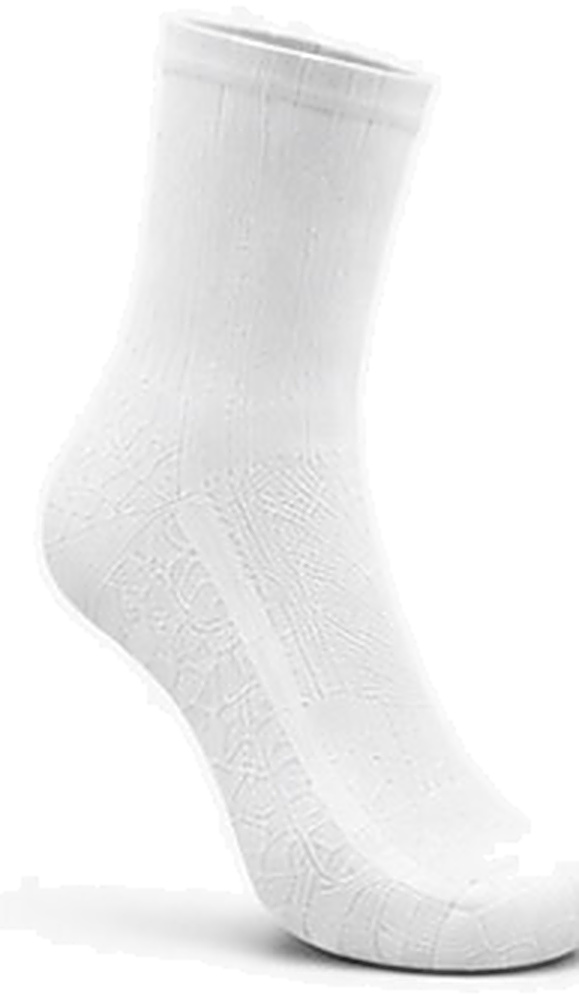
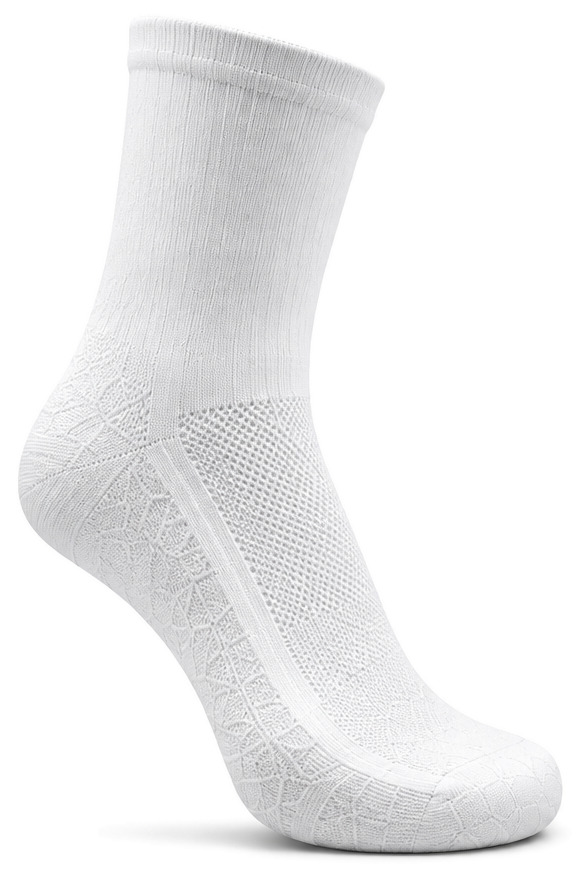
Swap in the supplied product photography
Replaces four of the six shots with crops from the photography provided,
at native resolution instead of upscaled sheet fragments:

  stuart-200-side       295 x 455 upscaled  ->  661 x 784 native
  stuart-200-back       111 x 257 upscaled  ->  372 x 773 native
  larch-100-white-side  193 x 334 upscaled  ->  581 x 877 native
  larch-100-white-back  140 x 334 upscaled  ->  300 x 879 native

The Stuart 200 back view gains the most: it was the softest image on the
site at eleven times fewer pixels than it now carries. All four are cut
with the same isolation pass, so the backgrounds stay pure white and the
socks still sit on the page background with no visible box.

The Larch 100 in Black has no supplied photography, so it stays on the
tech-pack crop and is now the only low-resolution pair on the site.

Copy follows the photography where the two disagree. The supplied images
show three larch dashes on the back cuff of BOTH socks, not the Mount
Stuart mountain the 200 Quarter tech pack drew there. The dashes are
treated as a house mark: the Stuart 200's signature line and the
editorial tile are rewritten, and the back-view alt text no longer
describes a mountain. The story section's references to the mountain
itself are untouched — they are about the peak, not a logo.

Claude-Session: https://claude.ai/code/session_013fb5EHTk8QK9CKA3QyLpvQ

Changed region(s): [[0.0311, 0.0, 1.0, 0.9852], [0.2176, 0.1847, 0.2487, 0.2463], [0.1865, 0.3079, 0.2176, 0.3387]]

diff --git a/index.html b/index.html
@@ -426,7 +426,7 @@ footer{background:#fff;border-top:1px solid var(--hair);padding:clamp(40px,5vw,6
         <article class="pfeat">
           <div class="pmedia">
             <div class="pshot">
-              <img id="img-200" src="img/stuart-200-side.jpg" width="885" height="1365"
+              <img id="img-200" src="img/stuart-200-side.jpg" width="661" height="784"
                    alt="Stuart 200 in Stuart Stone, outside view">
             </div>
             <div class="thumbs" data-main="img-200" role="group" aria-label="Stuart 200 views">
@@ -434,7 +434,7 @@ footer{background:#fff;border-top:1px solid var(--hair);padding:clamp(40px,5vw,6
                       data-src="img/stuart-200-side.jpg" data-alt="Stuart 200 in Stuart Stone, outside view">
                 <img src="img/stuart-200-side.jpg" alt="Outside view" loading="lazy"></button>
               <button type="button" aria-pressed="false"
-                      data-src="img/stuart-200-back.jpg" data-alt="Stuart 200 from behind, showing the Achilles guard and the Mount Stuart mark on the back cuff">
+                      data-src="img/stuart-200-back.jpg" data-alt="Stuart 200 from behind, showing the graphite heel and the three larch dashes on the back cuff">
                 <img src="img/stuart-200-back.jpg" alt="Back view" loading="lazy"></button>
             </div>
           </div>
@@ -443,7 +443,7 @@ footer{background:#fff;border-top:1px solid var(--hair);padding:clamp(40px,5vw,6
             <p class="sub">Quarter · Midweight cushion · Merino blend</p>
             <div class="lrule"></div>
             <p class="lede">Built for long miles. Made to move fast. Light, breathable, resilient cushioning that won't quit at mile 100 — full terry underfoot, an Achilles guard where the boot rubs, and a toe seam you can't find with your toes.</p>
-            <p class="sig"><b>The Mount Stuart mark.</b> Stitched in larch on the back cuff, above the Achilles guard — for the peak that closes the north end of the range.</p>
+            <p class="sig"><b>Three larch dashes, and graphite where it wears.</b> The house mark sits on the back cuff; below it the terry cushion wraps the heel, the sole and the toe.</p>
             <ul class="chips">
               <li><span>Height</span><b>Quarter · 5.5" heel to cuff</b></li>
               <li><span>Yarn</span><b>58–60% merino / 37–39% nylon / 3% elastane</b></li>
@@ -469,7 +469,7 @@ footer{background:#fff;border-top:1px solid var(--hair);padding:clamp(40px,5vw,6
         <article class="pfeat rev">
           <div class="pmedia">
             <div class="pshot">
-              <img id="img-crew" src="img/larch-100-white-side.jpg" width="579" height="1002"
+              <img id="img-crew" src="img/larch-100-white-side.jpg" width="581" height="877"
                    alt="Larch 100 in White / Larch, side view">
             </div>
             <div class="thumbs" data-main="img-crew" data-way="white"
@@ -496,7 +496,7 @@ footer{background:#fff;border-top:1px solid var(--hair);padding:clamp(40px,5vw,6
             <p class="sub">Mid-crew · Ultralight · Running &amp; trail</p>
             <div class="lrule"></div>
             <p class="lede">Built to move fast. Made to breathe. An open mesh knit that moves air over the whole vamp, and a compression fit that locks the sock down.</p>
-            <p class="sig"><b>Three larch dashes.</b> Centered on the back cuff, in the color this valley turns for two weeks every October.</p>
+            <p class="sig"><b>Three larch dashes.</b> The house mark, centered on the back cuff, in the color this valley turns for two weeks every October.</p>
             <ul class="chips">
               <li><span>Height</span><b>Mid-crew · 7–7.5" heel to cuff (M)</b></li>
               <li><span>Yarn</span><b>93% polypropylene / 7% elastane</b></li>
@@ -569,8 +569,8 @@ footer{background:#fff;border-top:1px solid var(--hair);padding:clamp(40px,5vw,6
                  src="https://images.unsplash.com/photo-1600100315760-ac46b65f6fdd?auto=format&amp;fit=crop&amp;w=1000&amp;q=75"
                  alt="A hiker's boots planted on bare rock">
           </figure>
-          <h3>Two marks, one range</h3>
-          <p>A mountain on the Stuart 200, three dashes on the Larch 100. Both in larch, both on the back cuff, both earned outside.</p>
+          <h3>Three dashes, one range</h3>
+          <p>The house mark, in larch — the color this valley turns for two weeks every October. It sits on the back cuff of every pair.</p>
           <a class="tlink" href="#ground">Read the story</a>
         </article>
         <article class="tile">

diff --git a/README.md b/README.md
@@ -53,39 +53,48 @@ Two products, drawn from the current tech packs:
 | Yarn | 58–60% merino / 37–39% nylon / 3% elastane | 93% polypropylene / 7% elastane |
 | Knit | 168 needle high density | Open mesh, reinforced heel & toe |
 | Colorways | Stuart Stone (Stone Heather, Graphite, Larch) | White/Larch, Black/Larch |
-| Back-cuff mark | Mount Stuart, in larch | Three larch dashes |
+| Back-cuff mark | Three larch dashes | Three larch dashes |
 
 Both are performance socks, so the names carry the place and the cushion weight
 rather than the fibre — the tech packs' "merino" and "performance" labels would
-not have told a customer them apart. Each sock is named for the mark on its own
-back cuff, and the number is the cushion weight, continuous with the old
-100/200/300 line. Larch (`#9E4A28`) is the shared accent. Sizes are unisex
-S/M/L/XL (US 4–6.5 / 7–9.5 / 10–12.5 / 13–15).
+not have told a customer them apart. The number is the cushion weight,
+continuous with the old 100/200/300 line. Larch (`#9E4A28`) is the shared
+accent. Sizes are unisex S/M/L/XL (US 4–6.5 / 7–9.5 / 10–12.5 / 13–15).
+
+The three larch dashes are a house mark, not a per-sock one: the supplied
+product photography shows them on the back cuff of both socks. The 200 Quarter
+tech pack drew a Mount Stuart mountain there instead, so the two disagree — the
+site follows the photography. See the launch list.
 
 Product copy carries the name alone — no colorway numbers, version codes or
 rank badges, and nothing overlaid on the photography.
 
 ### Product imagery
 
-`img/` holds six shots cropped out of the two tech-pack sheets — two per sock,
-side and back:
+`img/` holds six shots — two per sock, side and back:
 
 ```
 stuart-200-side.jpg        larch-100-white-side.jpg   larch-100-black-side.jpg
 stuart-200-back.jpg        larch-100-white-back.jpg   larch-100-black-back.jpg
 ```
 
-The back view is the second shot on purpose: it is where each sock's mark sits,
-over the heel. Sheet annotations — the 5.5" dimension line, the view labels,
-body copy that fell inside the crop — were removed by keeping only the sock's
+The first four are cut from supplied product photography and are native
+resolution — 661 x 784 up to 581 x 877. **The two black shots are still cropped
+from the tech-pack sheet** and are the only low-resolution images left on the
+site, so quality drops visibly when someone switches the Larch 100 to Black.
+
+The back view is the second shot on purpose: it is where the mark sits, over the
+heel. Stray sheet content — annotations, view labels, body copy that fell inside
+a crop — was removed by keeping only the sock's
 connected pixel region, and each background was lifted to pure white so the
 images sit on the page background under `mix-blend-mode: multiply` with no
 visible box. Change `--fog` and the frames follow; the photos need no re-export.
 
-They ship resampled 3x (Lanczos, a median pass to kill the ringing that
-introduces, then unsharp) at JPEG q95 with no chroma subsampling — sized so a 3x
-phone renders them at 1.0–1.2x rather than stretching them. 488 KB for all six;
-the two black shots only load if someone picks that colorway.
+The photographed four are saved at native size, JPEG q92, no chroma
+subsampling. The two black shots, having no better source, are resampled 3x
+(Lanczos, a median pass to kill the ringing that introduces, then unsharp) at
+q95. Every image renders at roughly 1x on a 3x phone. 496 KB for all six; the
+black pair only loads if someone picks that colorway.
 
 Each product has a two-up thumbnail strip that swaps the main image. The Larch
 100's colorway buttons swap the whole strip (`.thumbs[data-way]`) and reset it
@@ -101,7 +110,9 @@ build section, which is inline SVG built from the tech-pack geometry.
 
 - Prices ($22 / $16) are placeholders — the tech packs don't set them. Confirm before publishing, and update the "$32 sock priced at $22" line in the build section to match.
 - Replace the Unsplash placeholder landscape photography with real Teanaway shots and update the `src` attributes.
-- **The product shots want replacing with the originals.** They are cropped out of two 1206 px-wide sheet screenshots, so the native crops are small — 295 x 455 px for the Stuart 200 side view, and only 111 x 257 px for its back view. Every processing trick has been applied and the ceiling is the source, not the pipeline. Dropping in the original photography (or the source PDF/design file the sheets were built from) is the only real fix; keep the same filenames and nothing else has to change. They are development samples in any case, so a proper shoot is due before launch.
+- **The Larch 100 in Black still needs photography.** The other four shots came from supplied product images; Black is the last pair cropped from a tech-pack sheet, and the drop in quality is visible when the colorway is switched. Two shots, side and back, dropped in over `larch-100-black-side.jpg` and `larch-100-black-back.jpg`, and nothing else has to change.
+- **The back-cuff mark disagrees between the photography and the 200 Quarter tech pack.** The photography shows three larch dashes on both socks; the tech pack drew a Mount Stuart mountain on the 200. The site follows the photography and treats the dashes as a house mark. If the mountain is still the intent for the 200, its signature line and the "Three dashes, one range" tile both need reverting.
+- The Stuart 200 in the supplied photography reads lower than the tech pack's drawing of it. Worth confirming the `Quarter · 5.5" heel to cuff` spec still matches the sample being shot.
 - The raw tech-pack sheets are not in this repo. Anything committed here is served publicly by Vercel, and those sheets carry OEM notes — add them only if you want them public.
 - Reviews are placeholder copy — swap in real customer quotes.
 - The page carries no country-of-origin claim and no third-party brand names, by request. The tech packs list a Coolmax® nylon for the Stuart 200, USA manufacture for it, TBD origin for the Larch 100, and Pantone references for all three colors — none of that appears on the site. Reintroduce any of it only with the licensing and substantiation to back it up.
